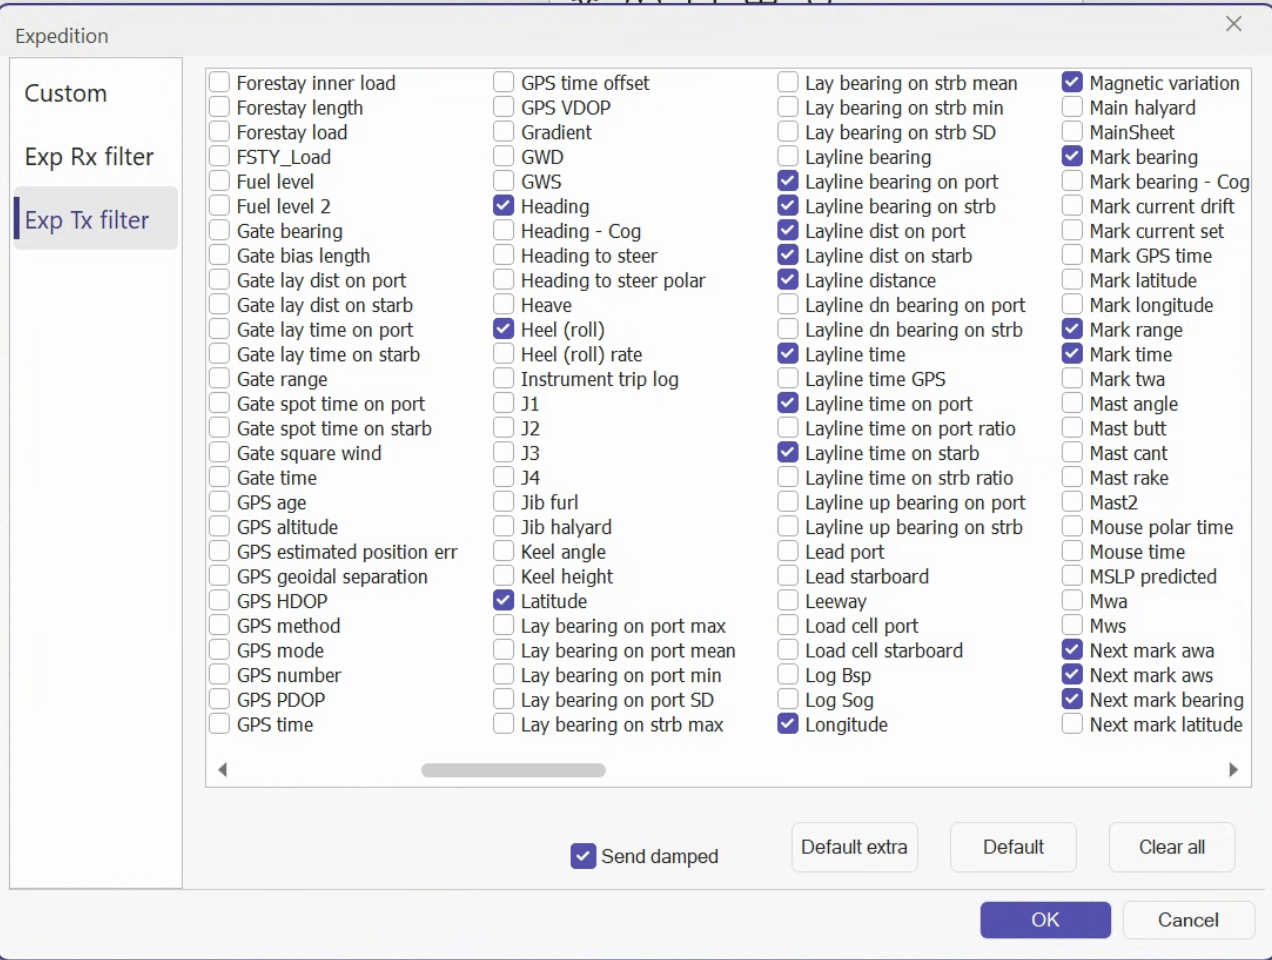
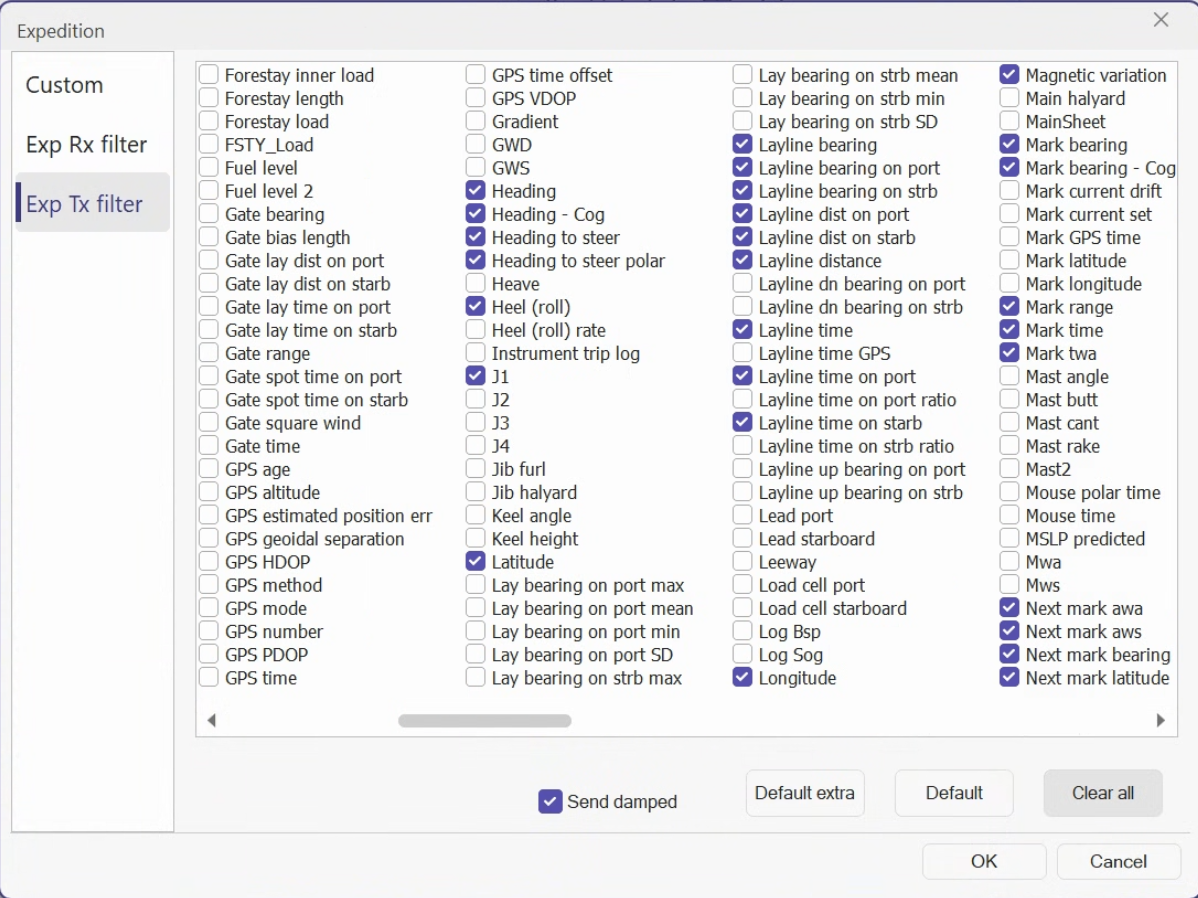
New SETUP

diff --git a/SETUP-GUIDE.md b/SETUP-GUIDE.md
@@ -255,35 +255,37 @@ Enable **Receive marks**
 | Barometer | BSP | Cog |
 | Course | Current drift | Current drift predicted |
 | Current set | Current set predicted | Depth |
-| Dew point | Heading - Cog | Heading to steer |
-| Heading to steer polar | Heel (roll) | J1 |
-| Latitude | Layline bearing | Layline bearing on port |
-| Layline bearing on strb | Layline dist on port | Layline dist on starb |
-| Layline distance | Layline time | Layline time on port |
-| Layline time on starb | Longitude | Magnetic variation |
-| Mark bearing | Mark bearing - Cog | Mark latitude |
-| Mark longitude | Mark range | Mark time |
-| Mark twa | Next mark awa | Next mark aws |
-| Next mark bearing | Next mark latitude | Next mark longitude |
-| Next mark polar time | Next mark range | Next mark time on port |
-| Next mark time on starb | Next mark twa | Opposite track |
-| Polar bsp | Polar bsp % | Predicted Drift |
-| Predicted twd | Predicted tws | Relative humidity |
-| Sail | Sail event | Sail mark |
-| Sail next mark | Sea temperature | Sog |
-| Start bias angle | Start bias length | Start distance below line |
-| Start layline on port | Start layline on strdb | Start line square wind |
-| Start port latitude | Start port longitude | Start stdb latitude |
-| Start stdb longitude | Start time to burn | Start time to gun |
-| Start time to layline P | Start time to layline S | Start time to line |
-| Start time to port | Start time to port burn | Start time to strb |
-| Start time to strb burn | Target bsp | Target bsp % |
+| Dew point | Heading | Heading - Cog |
+| Heading to steer | Heading to steer polar | Heel (roll) |
+| J1 | Latitude | Layline bearing |
+| Layline bearing on port | Layline bearing on strb | Layline dist on port |
+| Layline dist on starb | Layline distance | Layline time |
+| Layline time on port | Layline time on starb | Longitude |
+| Magnetic variation | Mark bearing | Mark bearing - Cog |
+| Mark bearing - Cog | Mark latitude | Mark longitude |
+| Mark range | Mark time | Mark twa |
+| Next mark awa | Next mark aws | Next mark bearing |
+| Next mark latitude | Next mark longitude | Next mark polar time |
+| Next mark range | Next mark time on port | Next mark time on starb |
+| Next mark twa | Opposite track | Opposite track - mark brg |
+| Opposite track Cog | Polar bsp | Polar bsp % |
+| Relative humidity | Rudder | Sail |
+| Sail event | Sail mark | Sail next mark |
+| Sea temperature | Sog | Start bias angle |
+| Start bias length | Start distance below line | Start distance to line |
+| Start gun dist below line | Start layline on port | Start layline on strbd |
+| Start line square wind | Start port latitude | Start port longitude |
+| Start stbd latitude | Start stbd longitude | Start time to burn |
+| Start time to gun | Start time to layline P | Start time to layline S |
+| Start time to line | Start time to port | Start time to port burn |
+| Start time to strb | Start time to strb burn | Staysail |
+| Target awa | Target bsp | Target bsp % |
 | Target twa | Trim (pitch) | TWA |
 | TWD | TWD predicted | TWS |
 | TWS predicted | VMC | VMC % |
 | VMC optimum | VMG | VMG % |
 
-<!-- 93 channels total -->
+<!-- 104 channels total -->
 
 ---
 
